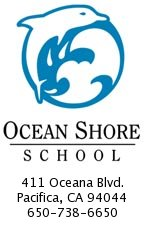
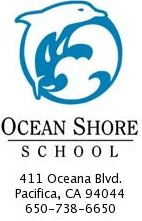
attempt to remove border

Changed region(s): [[0.0845, 0.0, 0.8732, 0.4887], [0.0, 0.5158, 0.9859, 0.733], [0.0845, 0.7873, 0.8732, 0.9774]]

diff --git a/css/printabletable.css b/css/printabletable.css
@@ -163,3 +163,5 @@ table.bordertable { border-collapse: collapse; }
 #header{ display:none; }
 #mainmenu{ display:none; }
 #breadcrumbs{ display:none; }
+
+img{ border:none; }
